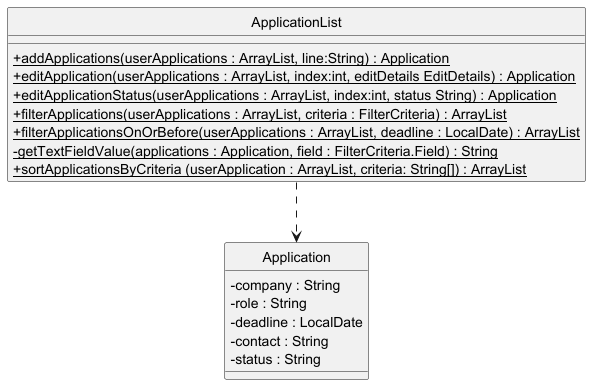
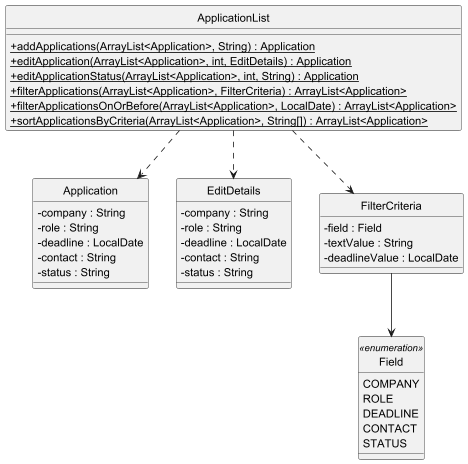
fix the application list component

Changed region(s): [[0.0, 0.0, 1.0, 0.9974], [0.7479, 0.6857, 0.9274, 0.9974]]

diff --git a/docs/DeveloperGuide.md b/docs/DeveloperGuide.md
@@ -431,11 +431,13 @@ A default status simplifies the user experience and ensures consistency across a
 
 ![application\_list.png](diagrams/application_list_diag.png)
 
+The diagram intentionally focuses on the static method of the ApplicationList that are exposed to be used by other components and show its dependency only, the method of common utility classes are not shown for clarity.
+
 The ApplicationList component is a stateless utility class that functions as a logic middleware. 
 
 It does not maintain its own state or store the application data internally; instead, it provides a suite of pure functions that perform operations (adding, filtering, sorting, editing) on an ArrayList<Application> passed in by the caller. 
 
-This decoupling ensures that the data storage remains independent of the processing logic.
+This decoupling ensures that the data storage remains independent of the processing logic. 
 
 ---
 
